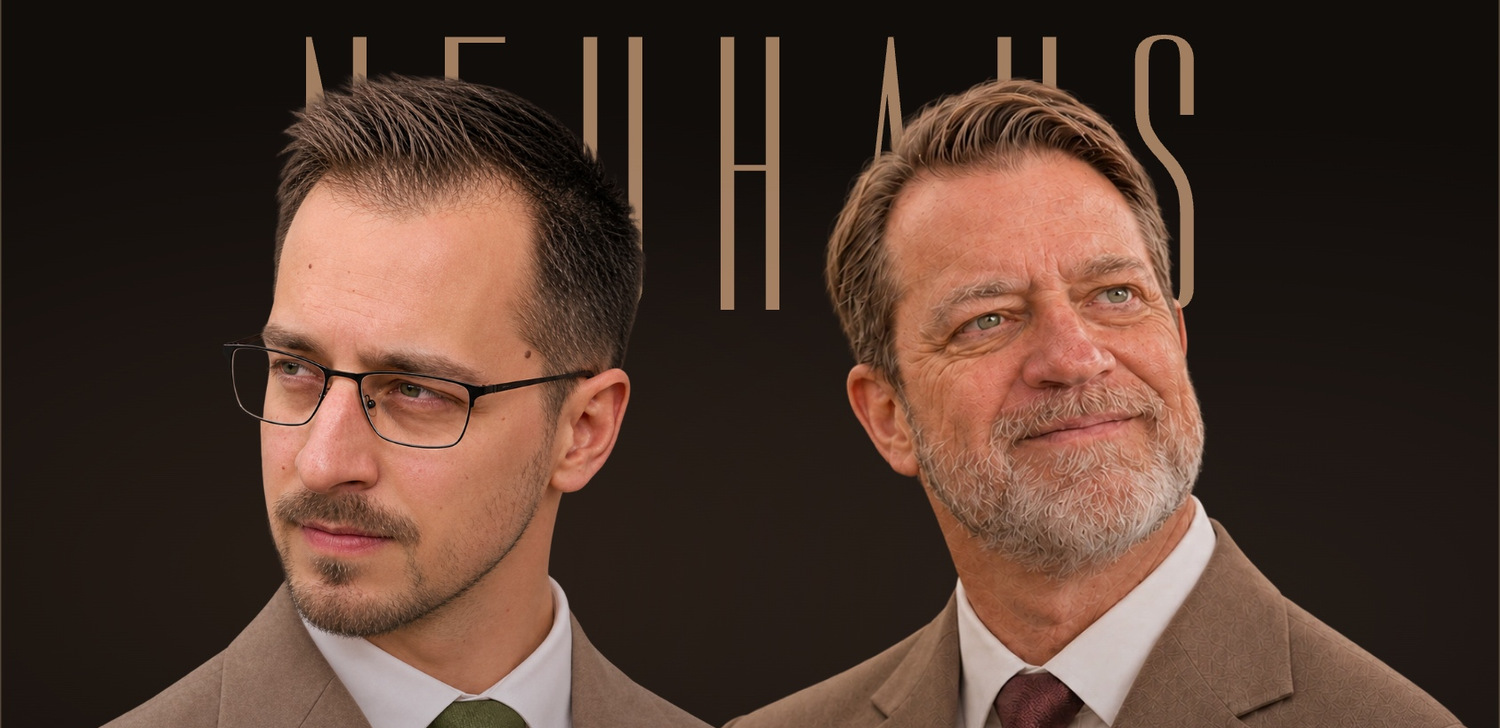
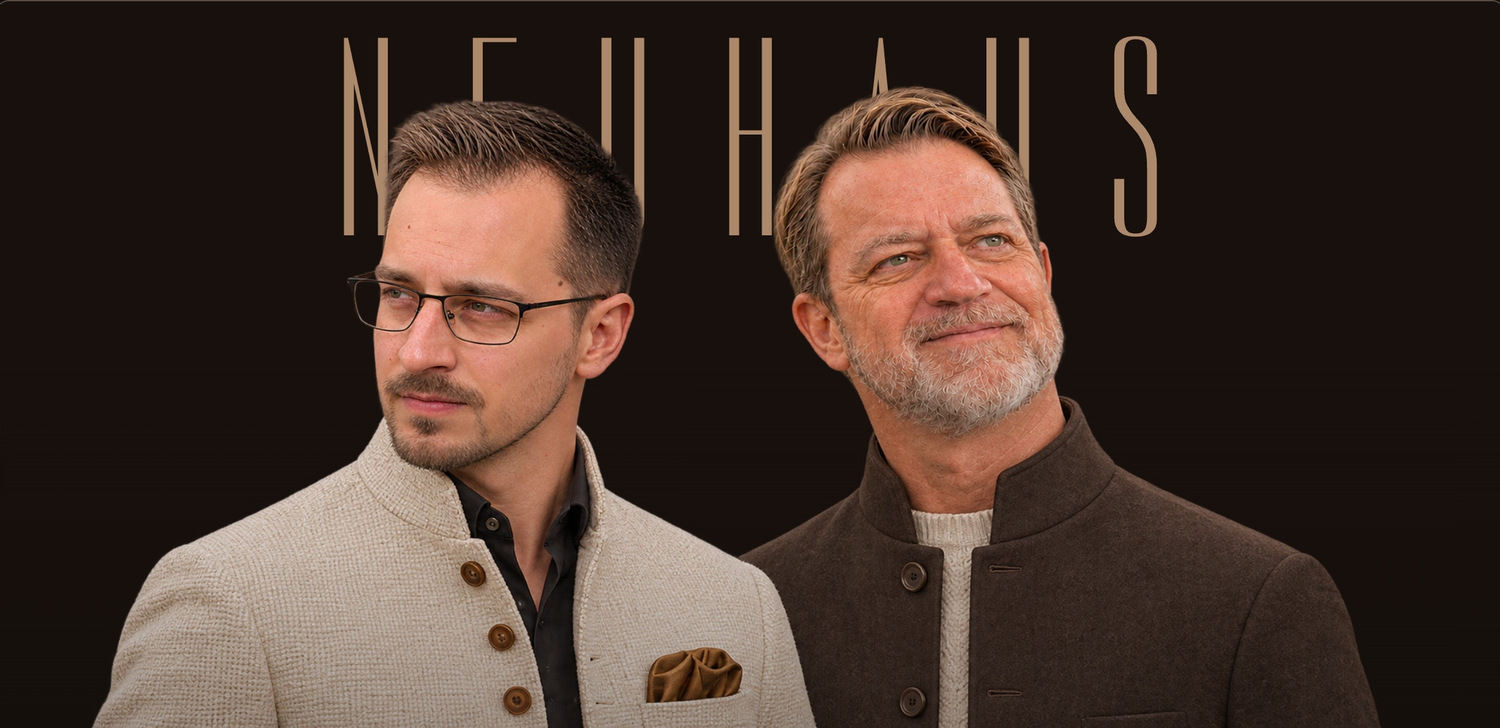
Publish the sharp stand-collar homepage portrait

diff --git a/assets/css/site.css b/assets/css/site.css
@@ -190,7 +190,7 @@ button, input { font: inherit; color: inherit; }
 }
 
 /* ---------- Hero ---------------------------------------------------------- */
-/* The approved layered portrait and antique patina icons. */
+/* The family portrait and antique patina icons. */
 .nh-hero {
   position: relative; background: var(--nh-espresso);
   padding-block: clamp(16px, 2.25vw, 32px) 8px;
@@ -210,32 +210,29 @@ button, input { font: inherit; color: inherit; }
 .nh-portrait {
   --hero-duration: 875ms;
   position: relative; isolation: isolate; container-type: inline-size;
-  aspect-ratio: 1.6; overflow: hidden;
-  background: radial-gradient(ellipse at 26% 65%, #50392b66, transparent 57%),
-    radial-gradient(ellipse at 80% 70%, #48372d66, transparent 55%), #110d0b;
+  aspect-ratio: 2.08; overflow: hidden; background: #17100d;
 }
 .nh-portrait__wordmark {
-  position: absolute; inset: 14px 0 auto; padding-left: .16em;
-  font: 400 26cqw/1 var(--nh-font-display); letter-spacing: .16em;
-  text-align: center; white-space: nowrap; color: #c79b78; opacity: .8;
+  position: absolute; inset: 0 0 auto; padding-inline-start: 4.8606cqw;
+  font: 400 18.6644cqw/1 var(--nh-font-display); letter-spacing: 4.8606cqw;
+  text-align: center; white-space: nowrap; color: #ad896c;
   pointer-events: none; transition: filter var(--hero-duration), opacity var(--hero-duration);
 }
-.nh-portrait__person {
-  position: absolute; bottom: -1px; width: 57%; max-width: none; height: auto;
-  transform-origin: 50% 85%; pointer-events: none;
-  transition: transform var(--hero-duration) var(--nh-ease),
-    filter var(--hero-duration) ease, opacity var(--hero-duration) ease;
+.nh-portrait__pair {
+  position: absolute;
+  inset: auto 0 0;
+  z-index: 2;
+  width: 100%;
+  height: calc(100% - 5cqw);
+  object-fit: contain;
+  object-position: center bottom;
+  mask-image: linear-gradient(to bottom, transparent, black 1%);
+  pointer-events: none;
+  transition: opacity var(--hero-duration) ease;
 }
-.nh-portrait__person--ian,
-.nh-portrait__person--ian-blur-light,
-.nh-portrait__person--ian-blur-heavy { left: 0; z-index: 3; }
-.nh-portrait__person--father,
-.nh-portrait__person--father-blur-light,
-.nh-portrait__person--father-blur-heavy { right: 0; z-index: 2; }
-.nh-portrait__person--father-blur-light,
-.nh-portrait__person--father-blur-heavy,
-.nh-portrait__person--ian-blur-light,
-.nh-portrait__person--ian-blur-heavy { opacity: 0; }
+.nh-portrait:not([data-platform="both"]) .nh-portrait__pair {
+  opacity: .58;
+}
 .nh-portrait__shade {
   position: absolute; z-index: 4; inset: 0;
   background: linear-gradient(to bottom, transparent 46%, rgba(17, 13, 11, .12) 74%, rgba(17, 13, 11, .33) 100%);
@@ -264,7 +261,7 @@ button, input { font: inherit; color: inherit; }
   object-fit: contain; filter: drop-shadow(0 12px 16px #0007);
   transition: transform 220ms var(--nh-ease);
 }
-/* Keep the icon sharp; only the portraits lose focus. */
+/* Give the platform icon a subtle lift on interaction. */
 .nh-portrait__link:focus-visible .nh-portrait__icon,
 .nh-portrait__link:active .nh-portrait__icon { transform: translateY(-3px) scale(1.09); }
 @media (hover: hover) and (pointer: fine) {
@@ -275,37 +272,12 @@ button, input { font: inherit; color: inherit; }
   opacity: 1; visibility: visible; pointer-events: auto; transform: translateY(0);
   transition-delay: 150ms, 100ms, 0s;
 }
-.nh-portrait[data-platform="ios"] .nh-portrait__person--ian,
-.nh-portrait[data-platform="android"] .nh-portrait__person--father,
-.nh-portrait[data-platform="ios"] .nh-portrait__person--father,
-.nh-portrait[data-platform="android"] .nh-portrait__person--ian { opacity: 0; }
-.nh-portrait[data-platform="ios"] .nh-portrait__person--ian-blur-heavy,
-.nh-portrait[data-platform="android"] .nh-portrait__person--father-blur-heavy {
-  opacity: .16; transform: scale(.985);
-}
-.nh-portrait[data-platform="ios"] .nh-portrait__person--father-blur-light,
-.nh-portrait[data-platform="android"] .nh-portrait__person--ian-blur-light { opacity: .7; }
 .nh-portrait:not([data-platform="both"]) .nh-portrait__wordmark { opacity: .4; filter: blur(2px); }
 .nh-hero__fallback { display: flex; justify-content: center; gap: 24px; padding: 12px; }
 .nh-portrait.is-interactive + .nh-hero__fallback { display: none; }
 @media (max-width: 47.99rem) {
-  .nh-portrait { aspect-ratio: 1.25; }
-  .nh-portrait__person { width: 69%; }
-  .nh-portrait__person--father-blur-light,
-  .nh-portrait__person--father-blur-heavy,
-  .nh-portrait__person--ian-blur-light,
-  .nh-portrait__person--ian-blur-heavy { display: none; }
-  .nh-portrait__person--ian { left: -7%; }
-  .nh-portrait__person--father { right: -7%; }
-  .nh-portrait[data-platform="ios"] .nh-portrait__person--ian,
-  .nh-portrait[data-platform="android"] .nh-portrait__person--father {
-    opacity: .16; filter: blur(12px); transform: scale(.985);
-  }
-  .nh-portrait[data-platform="ios"] .nh-portrait__person--father,
-  .nh-portrait[data-platform="android"] .nh-portrait__person--ian {
-    opacity: .7; filter: blur(2px);
-  }
-  .nh-portrait__wordmark { top: 7px; }
+  .nh-portrait { aspect-ratio: 1.43; }
+  .nh-portrait__pair { height: calc(100% - 7cqw); object-fit: cover; }
   .nh-portrait__icon { width: 29cqw; max-width: 140px; }
   .nh-portrait__link { gap: 4px; }
 }

diff --git a/index.html b/index.html
@@ -11,15 +11,15 @@
   <meta property="og:title" content="Neuhaus Apps — Apps worth opening">
   <meta property="og:description" content="Focused apps for tracking takeout, making room for prayer, and comparing job offers.">
   <meta property="og:url" content="https://neuhausapps.com/">
-  <meta property="og:image" content="https://neuhausapps.com/assets/img/neuhaus-team-hero.jpg?v=20261127-portrait">
+  <meta property="og:image" content="https://neuhausapps.com/assets/img/neuhaus-team-hero.jpg?v=20261127-ivory-chocolate">
   <meta property="og:image:width" content="1500">
   <meta property="og:image:height" content="728">
-  <meta property="og:image:alt" content="Ian Neuhaus and his father in complementary ties beneath the Neuhaus wordmark">
+  <meta property="og:image:alt" content="Ian Neuhaus and his father in ivory and chocolate stand-collar jackets beneath the Neuhaus wordmark">
   <meta name="theme-color" content="#140E0C">
   <link rel="preload" href="assets/fonts/dorsa-latin-400.woff2" as="font" type="font/woff2" crossorigin>
   <link rel="preload" href="assets/fonts/manrope-latin-wght.woff2" as="font" type="font/woff2" crossorigin>
   <link rel="stylesheet" href="assets/css/tokens.css">
-  <link rel="stylesheet" href="assets/css/site.css?v=20261127-mobile-cards">
+  <link rel="stylesheet" href="assets/css/site.css?v=20261127-ivory-chocolate">
   <script src="assets/js/apps-data.js?v=20261127-collection" defer></script>
   <script src="assets/js/main.js?v=20261127-collection" defer></script>
   <script src="assets/js/hero.js?v=20261108-antique-hero" defer></script>
@@ -65,12 +65,10 @@
     <div class="nh-hero__frame">
       <div class="nh-portrait" data-hero data-platform="both">
         <div class="nh-portrait__wordmark" aria-hidden="true">NEUHAUS</div>
-        <img class="nh-portrait__person nh-portrait__person--father" src="assets/img/hero/father.webp?v=20261108-hires" width="887" height="887" fetchpriority="high" alt="Ian’s father in a taupe suit and burgundy tie">
-        <img class="nh-portrait__person nh-portrait__person--father-blur-light" src="assets/img/hero/father-blur-light.webp" width="887" height="887" decoding="async" alt="" aria-hidden="true">
-        <img class="nh-portrait__person nh-portrait__person--father-blur-heavy" src="assets/img/hero/father-blur-heavy.webp" width="887" height="887" decoding="async" alt="" aria-hidden="true">
-        <img class="nh-portrait__person nh-portrait__person--ian" src="assets/img/hero/ian.webp?v=20261127-portrait" width="1254" height="1254" fetchpriority="high" alt="Ian in glasses, a taupe suit, and a green tie">
-        <img class="nh-portrait__person nh-portrait__person--ian-blur-light" src="assets/img/hero/ian-blur-light.webp?v=20261127-portrait" width="887" height="887" decoding="async" alt="" aria-hidden="true">
-        <img class="nh-portrait__person nh-portrait__person--ian-blur-heavy" src="assets/img/hero/ian-blur-heavy.webp?v=20261127-portrait" width="887" height="887" decoding="async" alt="" aria-hidden="true">
+        <img class="nh-portrait__pair" src="assets/img/hero/ivory-chocolate-pair.webp"
+          srcset="assets/img/hero/ivory-chocolate-pair-944.webp 944w, assets/img/hero/ivory-chocolate-pair.webp 1877w"
+          sizes="(max-width: 47.99rem) 145vw, (max-width: 85rem) 100vw, 1280px"
+          width="1877" height="838" fetchpriority="high" alt="Ian in an ivory stand-collar jacket beside his father in a chocolate stand-collar jacket">
         <div class="nh-portrait__shade" aria-hidden="true"></div>
         <button class="nh-portrait__trigger nh-portrait__trigger--ian" type="button" data-hero-trigger="ios" aria-label="Ian: reveal iPhone apps" aria-controls="hero-iphone" aria-expanded="false" hidden></button>
         <a class="nh-portrait__link nh-portrait__link--apple" id="hero-iphone" data-hero-link="ios" href="#apps" hidden>
